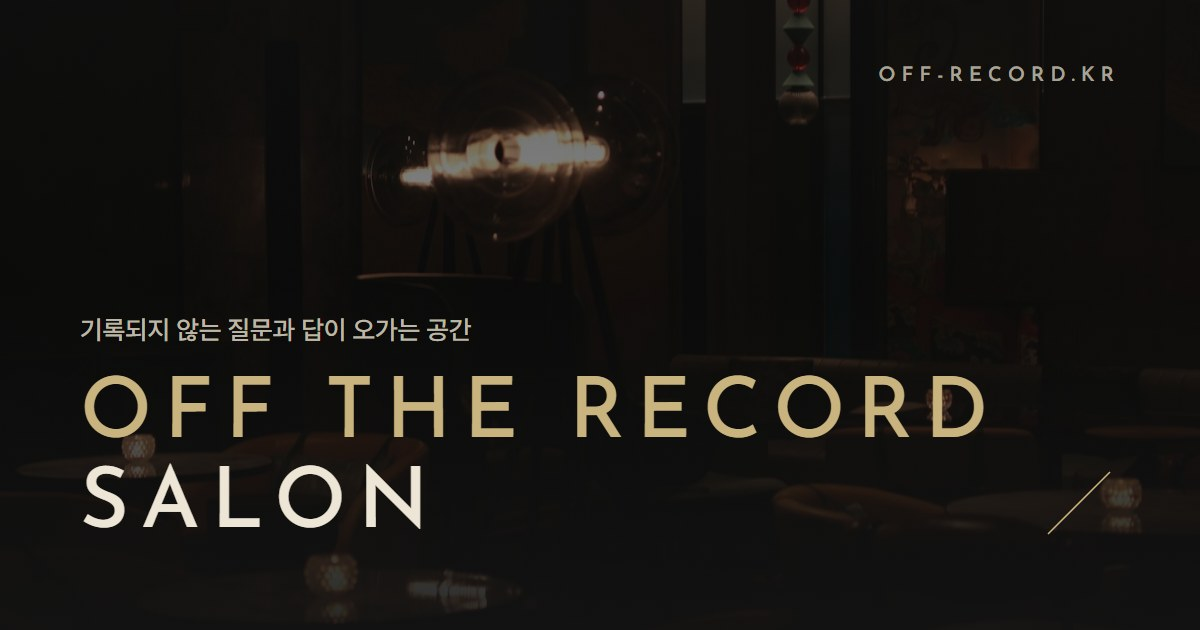
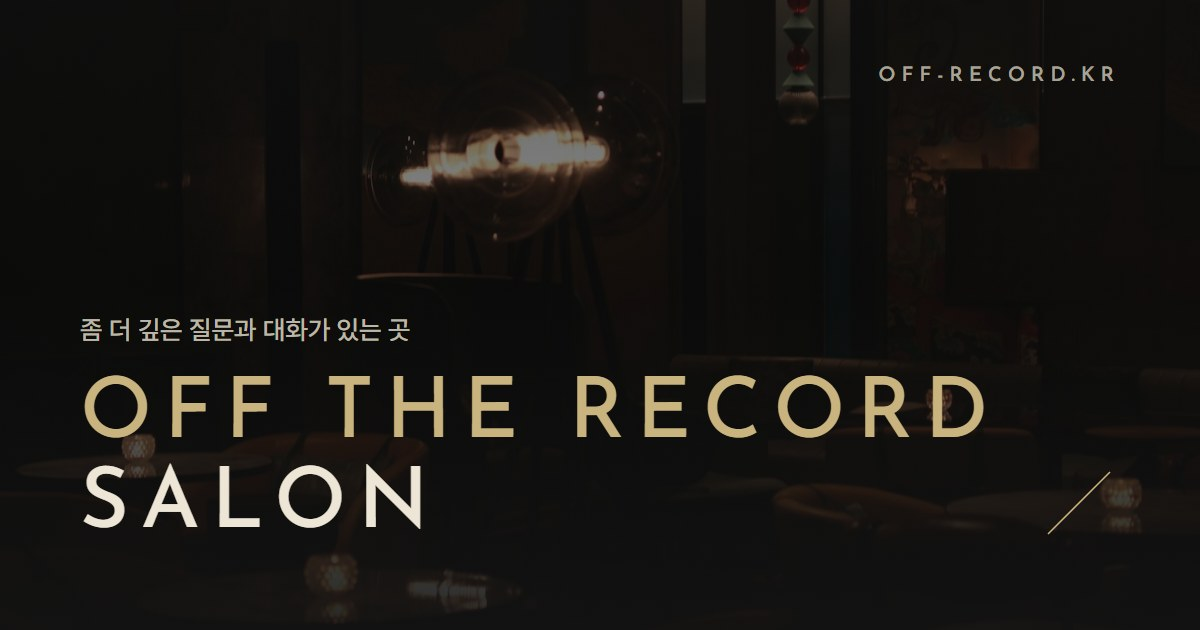
슬로건 변경: 좀 더 깊은 질문과 대화가 있는 곳 (메인·공유 설명·OG 이미지)

Changed region(s): [[0.0617, 0.4825, 0.4008, 0.5429]]

diff --git a/index.html b/index.html
@@ -1,8 +1,8 @@
 <!DOCTYPE html><html lang="ko"><head><meta charset="UTF-8"><meta name="viewport" content="width=device-width,initial-scale=1.0,viewport-fit=cover">
 <link rel="icon" href="/favicon.ico" sizes="any"><link rel="icon" type="image/png" href="/favicon.png"><link rel="apple-touch-icon" href="/apple-touch-icon.png">
 <title>Off the Record Salon</title>
-<meta name="description" content="Where real questions meet real answers. 기록되지 않는 질문과 답이 오가는 공간.">
-<meta property="og:type" content="website"><meta property="og:site_name" content="Off the Record Salon"><meta property="og:url" content="https://off-record.kr/"><meta property="og:title" content="Off the Record Salon"><meta name="twitter:title" content="Off the Record Salon"><meta property="og:image" content="https://off-record.kr/og.jpg"><meta property="og:image:width" content="1200"><meta property="og:image:height" content="630"><meta name="twitter:card" content="summary_large_image"><meta name="twitter:image" content="https://off-record.kr/og.jpg"><meta property="og:description" content="기록되지 않는 질문과 답이 오가는 공간">
+<meta name="description" content="좀 더 깊은 질문과 대화가 있는 곳. 서로 다른 분야의 리더들이 질문을 꺼내고 경험을 나누는 프라이빗 리더십 살롱.">
+<meta property="og:type" content="website"><meta property="og:site_name" content="Off the Record Salon"><meta property="og:url" content="https://off-record.kr/"><meta property="og:title" content="Off the Record Salon"><meta name="twitter:title" content="Off the Record Salon"><meta property="og:image" content="https://off-record.kr/og.jpg"><meta property="og:image:width" content="1200"><meta property="og:image:height" content="630"><meta name="twitter:card" content="summary_large_image"><meta name="twitter:image" content="https://off-record.kr/og.jpg"><meta property="og:description" content="좀 더 깊은 질문과 대화가 있는 곳">
 <link href="https://fonts.googleapis.com/css2?family=Inter+Tight:ital,wght@0,300;0,400;0,500;0,600;0,700;1,400&family=Anton&family=Allura&family=Jost:wght@300;400&family=Josefin+Sans:wght@500;600&display=swap" rel="stylesheet">
 <link href="https://cdn.jsdelivr.net/gh/orioncactus/pretendard@v1.3.9/dist/web/static/pretendard.min.css" rel="stylesheet">
 <style>
@@ -545,7 +545,7 @@ body::after{display:none}
 <section class="hero" id="home">
   <div class="hero-media" id="heroMedia" aria-hidden="true"></div>
   <div class="hero-bottom">
-    <p class="hero-sub">기록되지 않는 질문과 답이 오가는 공간<small>오프레코드 살롱</small></p>
+    <p class="hero-sub">좀 더 깊은 질문과 대화가 있는 곳<small>오프레코드 살롱</small></p>
     <h1 class="hero-wordmark"><span class="gold-txt">Off&nbsp;the&nbsp;Record</span><br>Salon</h1>
   </div>
 </section>

diff --git a/admin.html b/admin.html
@@ -2,8 +2,8 @@
 <link rel="icon" href="/favicon.ico" sizes="any"><link rel="icon" type="image/png" href="/favicon.png"><link rel="apple-touch-icon" href="/apple-touch-icon.png">
 <title>관리자 — Off the Record Salon</title>
 <meta name="robots" content="noindex">
-<meta name="description" content="Where real questions meet real answers. 기록되지 않는 질문과 답이 오가는 공간.">
-<meta property="og:title" content="Off the Record Salon"><meta property="og:description" content="기록되지 않는 질문과 답이 오가는 공간">
+<meta name="description" content="좀 더 깊은 질문과 대화가 있는 곳. 서로 다른 분야의 리더들이 질문을 꺼내고 경험을 나누는 프라이빗 리더십 살롱.">
+<meta property="og:title" content="Off the Record Salon"><meta property="og:description" content="좀 더 깊은 질문과 대화가 있는 곳">
 <link href="https://fonts.googleapis.com/css2?family=Inter+Tight:ital,wght@0,300;0,400;0,500;0,600;0,700;1,400&family=Anton&family=Allura&family=Jost:wght@300;400&family=Josefin+Sans:wght@500;600&display=swap" rel="stylesheet">
 <link href="https://cdn.jsdelivr.net/gh/orioncactus/pretendard@v1.3.9/dist/web/static/pretendard.min.css" rel="stylesheet">
 <style>
@@ -407,7 +407,7 @@ footer{background:var(--dk)}footer p{color:rgba(237,230,214,.35)}
     </div>
     <div class="site-card">
       <h3>미리보기</h3>
-      <div class="hprev" id="hPrev"><div class="hprev-media" id="hPrevMedia"></div><div class="hprev-text"><small>기록되지 않는 질문과 답이 오가는 공간</small><b>Off&nbsp;the&nbsp;Record Salon</b></div></div>
+      <div class="hprev" id="hPrev"><div class="hprev-media" id="hPrevMedia"></div><div class="hprev-text"><small>좀 더 깊은 질문과 대화가 있는 곳</small><b>Off&nbsp;the&nbsp;Record Salon</b></div></div>
       <p class="note" style="margin-top:.75rem">실제 화면 비율과 다를 수 있습니다. 저장 후 <a href="index.html" target="_blank" style="color:var(--ac)">홈페이지 새 창</a>에서 확인하세요.</p>
     </div>
   </div>
